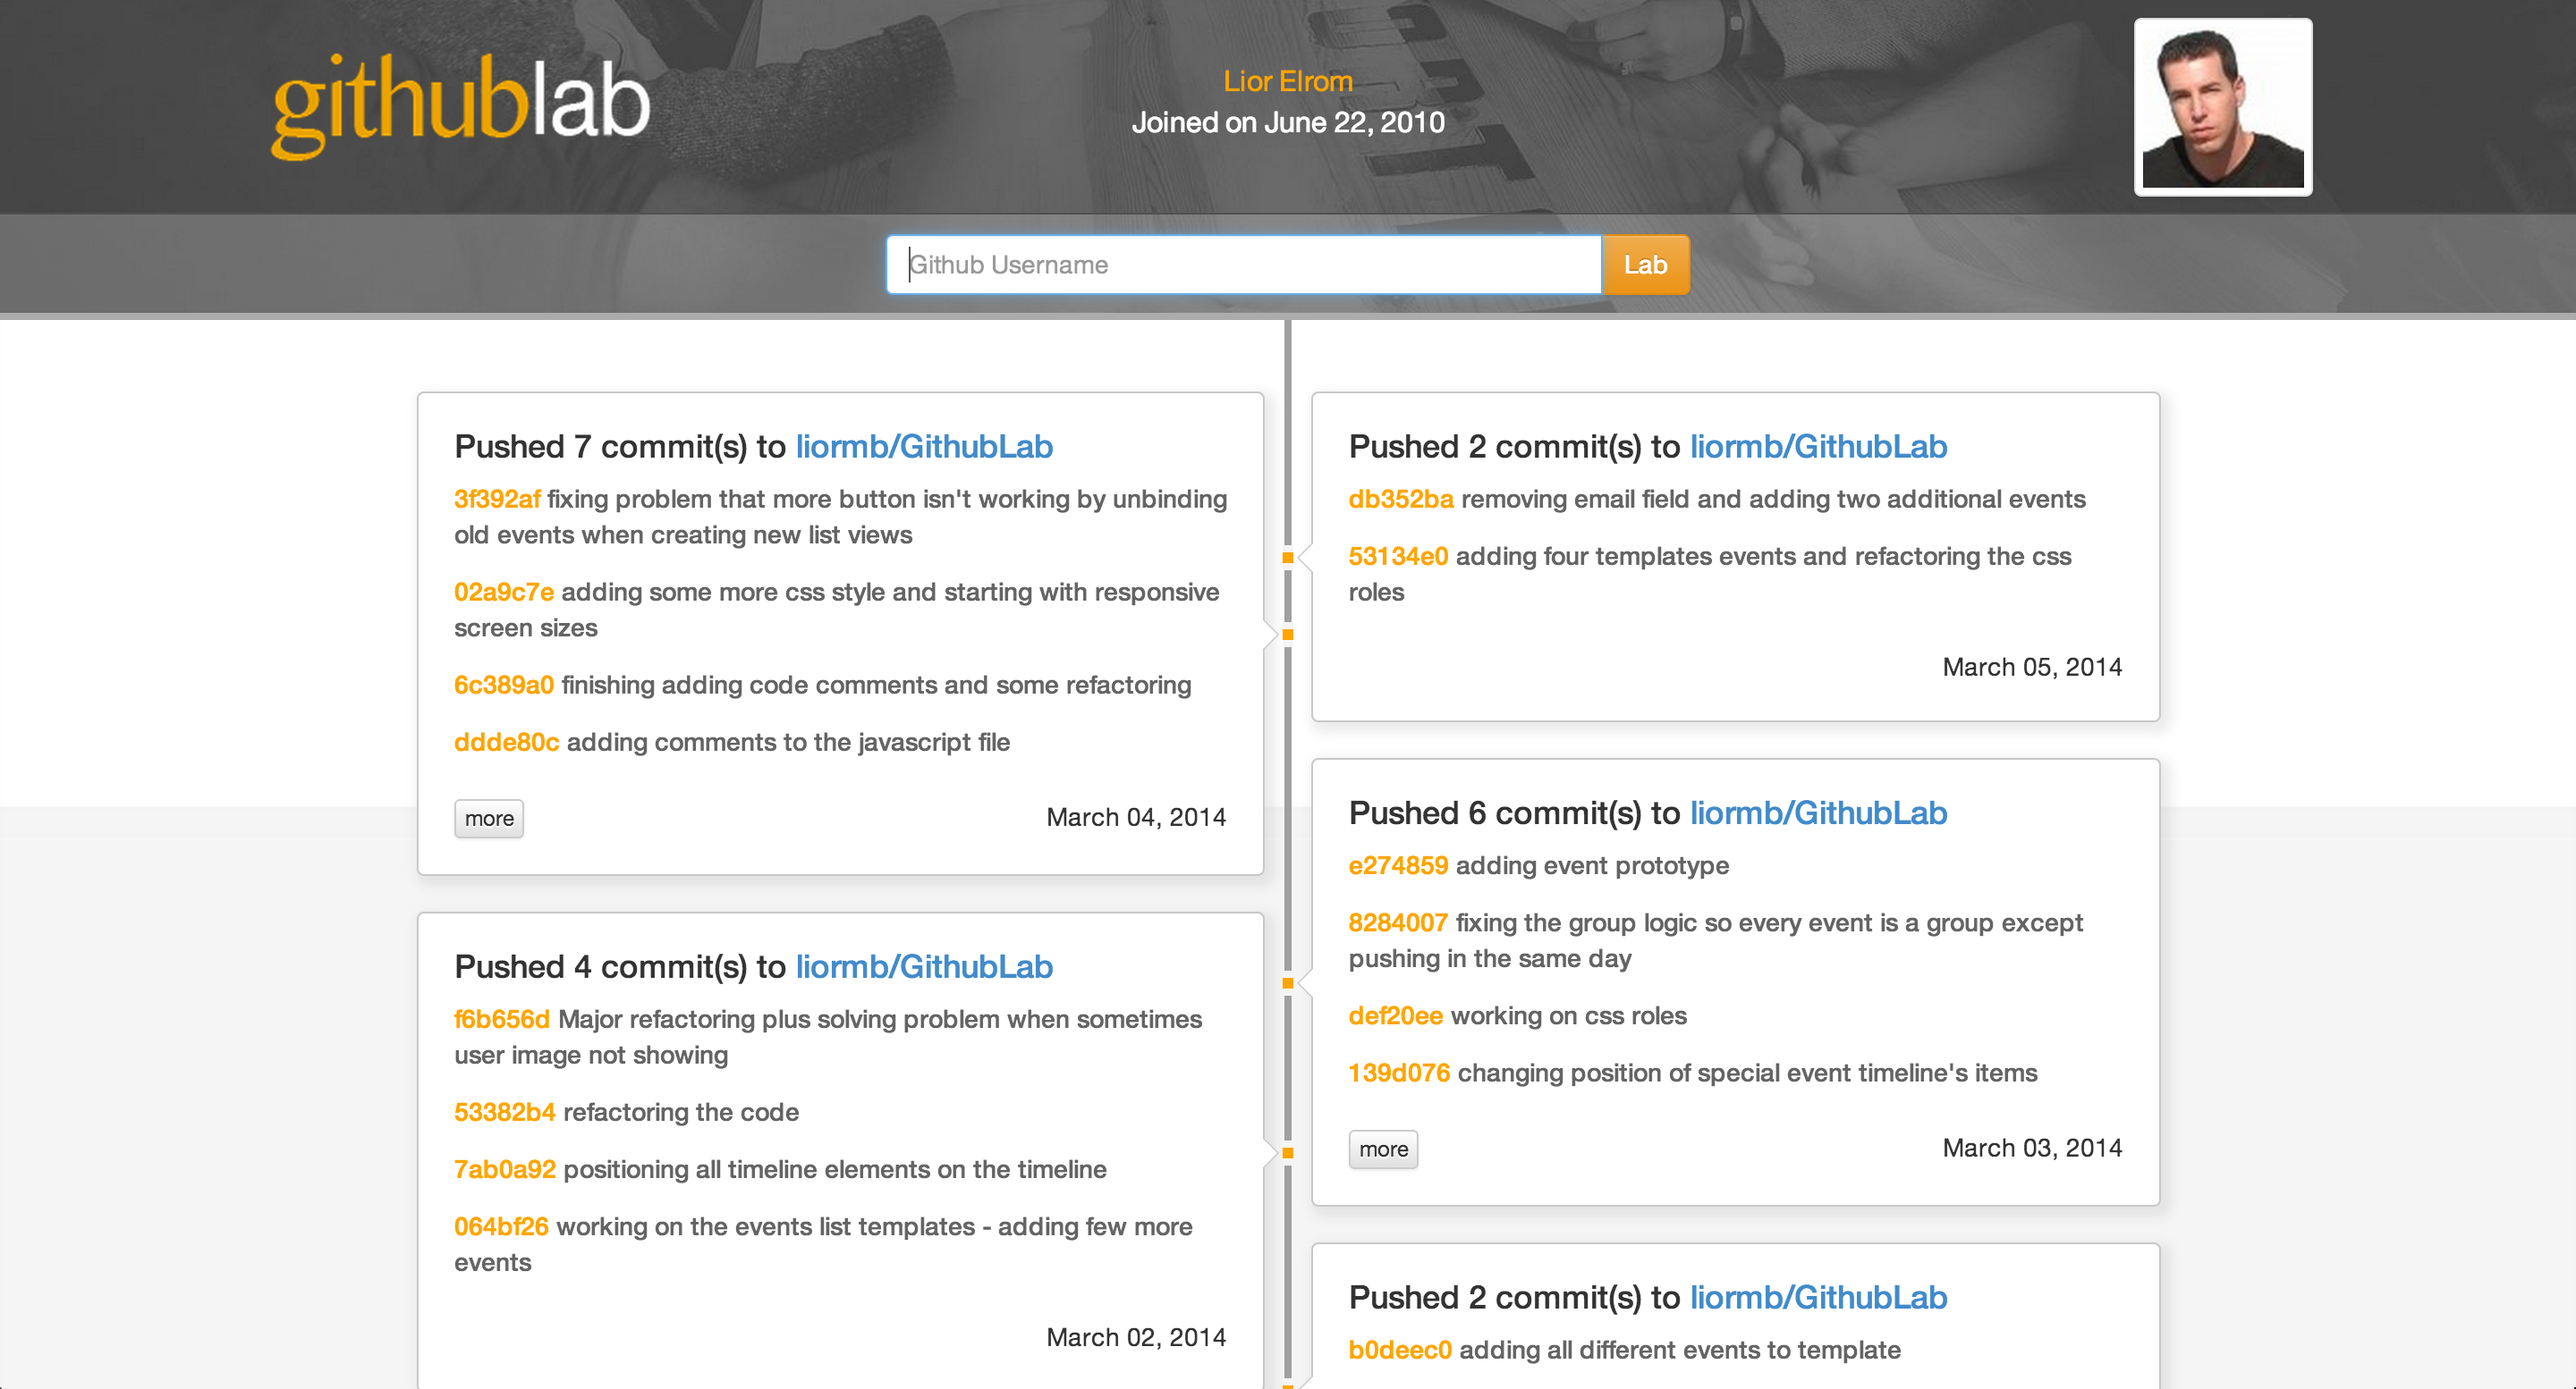
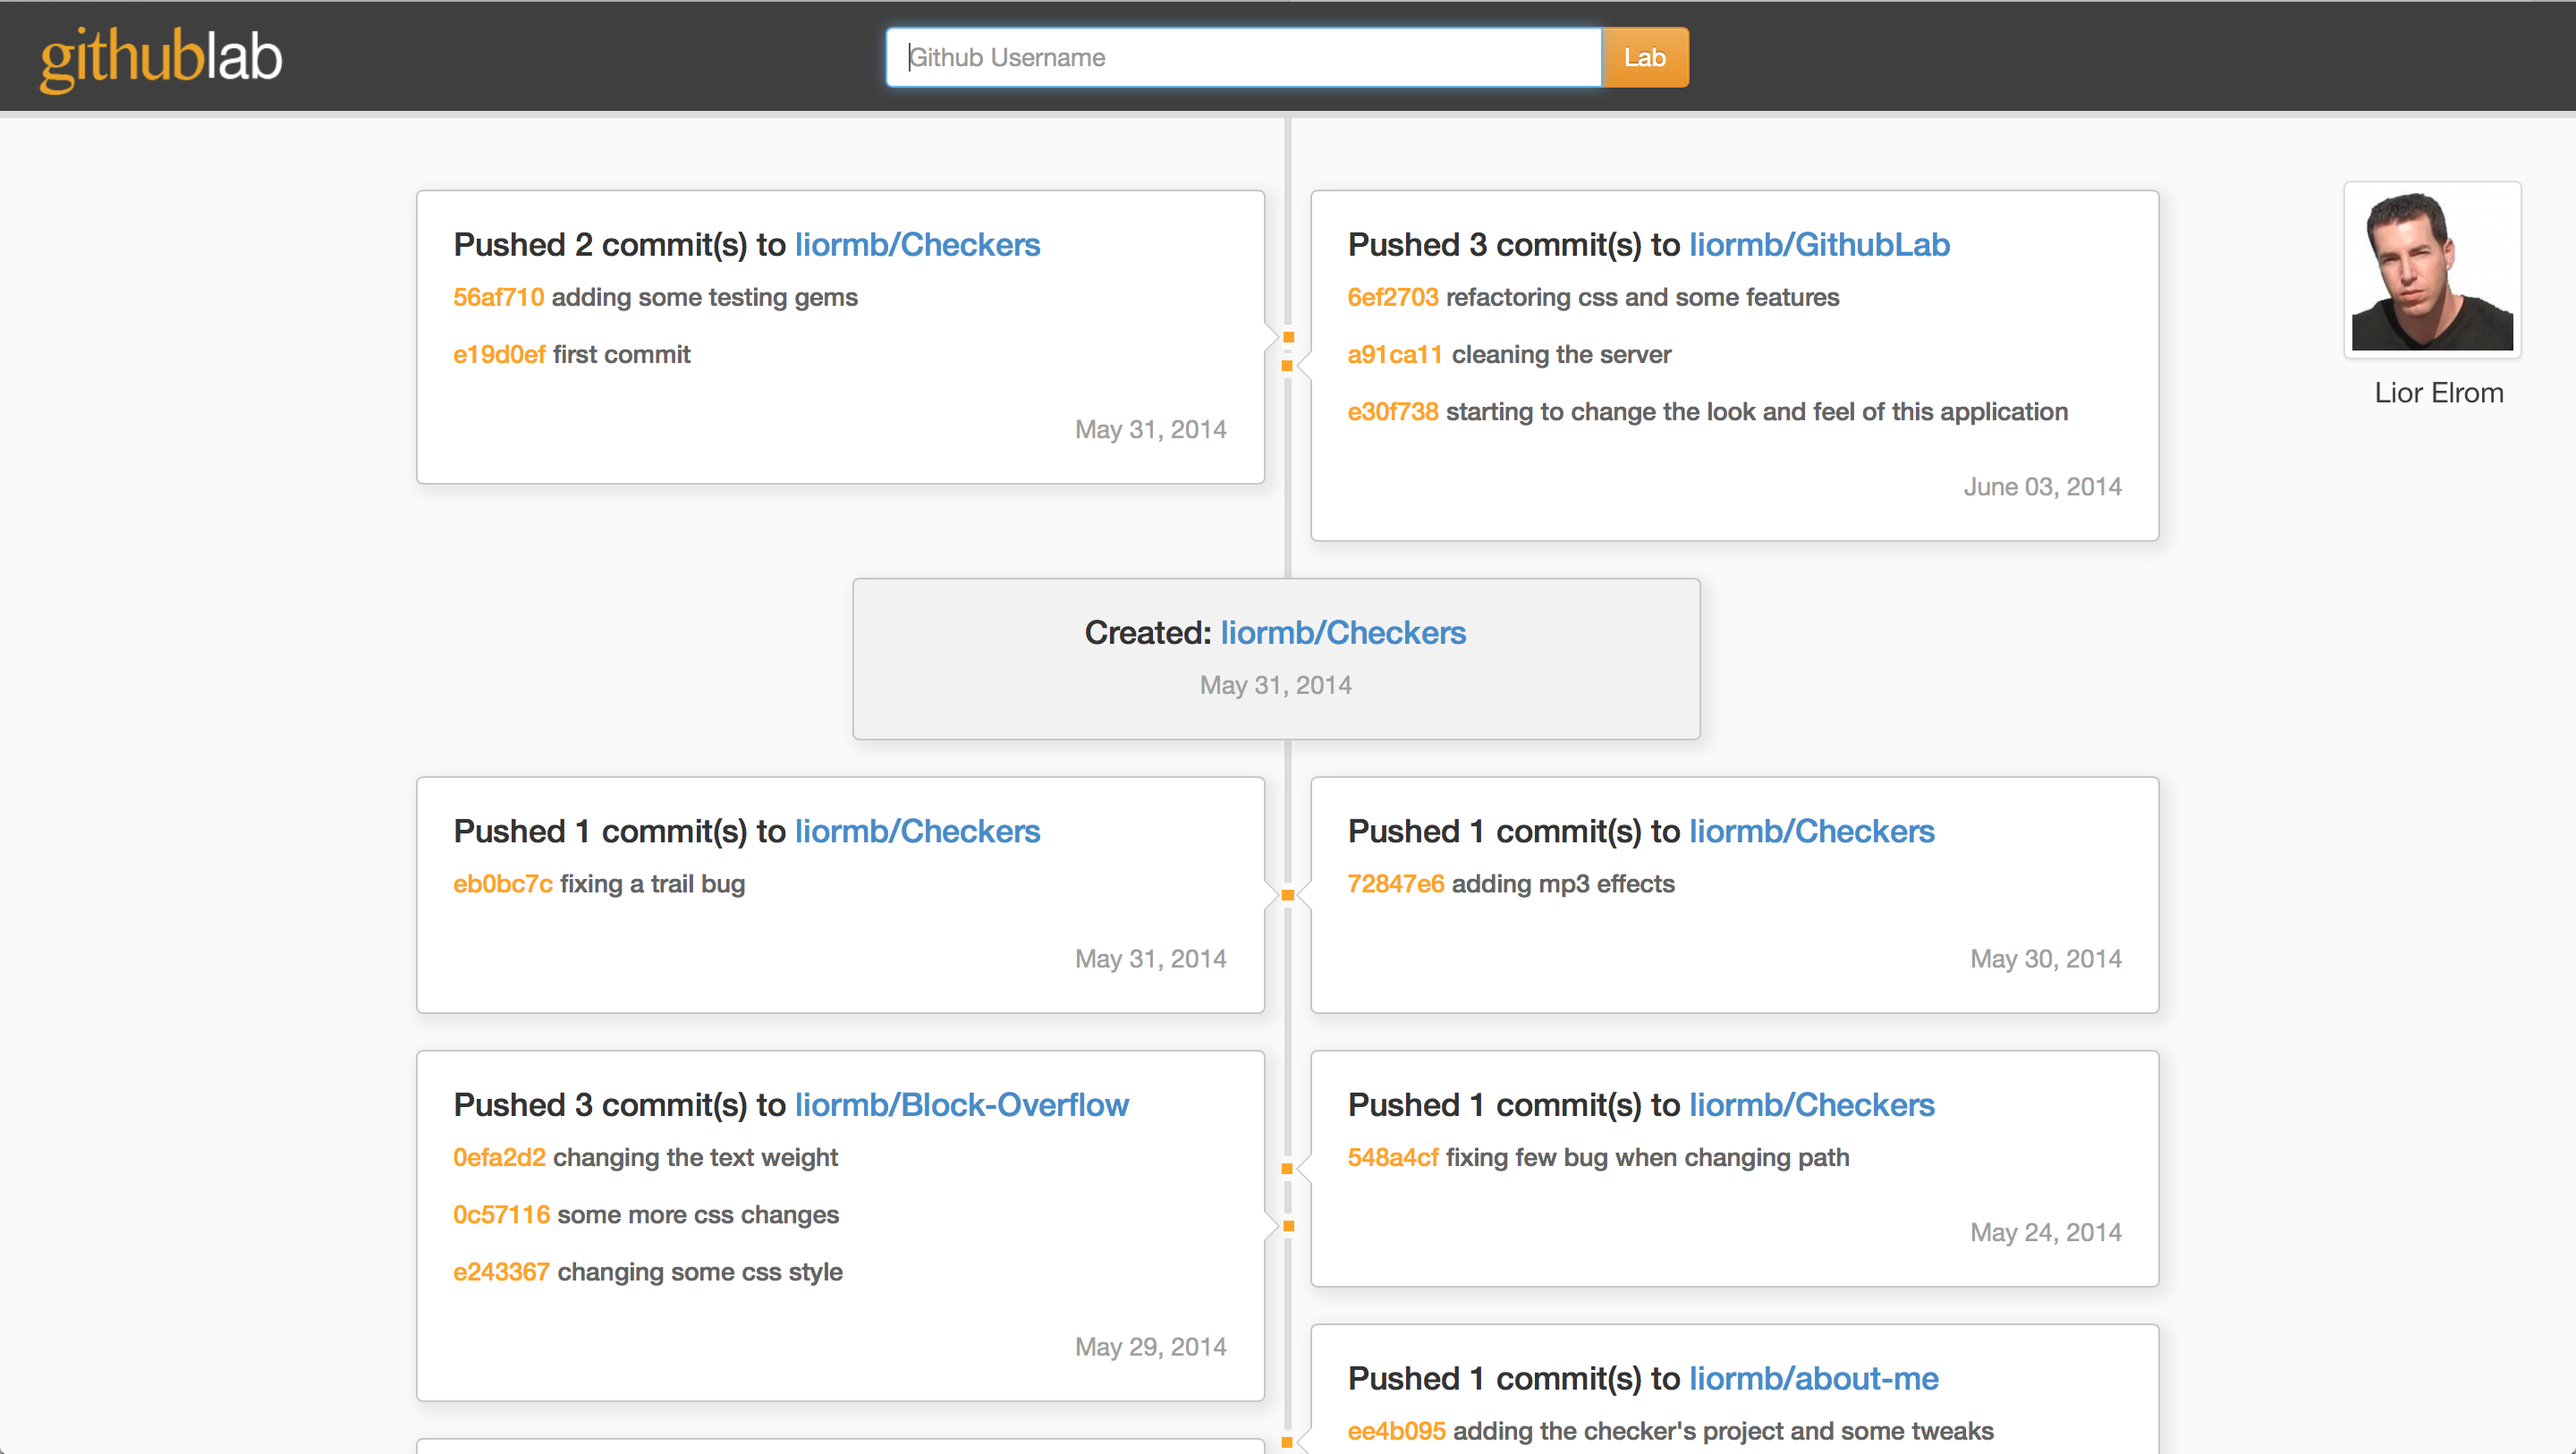
replacing screenshots images and showing upto 10 pages per user

diff --git a/public/javascripts/githublab.js b/public/javascripts/githublab.js
@@ -1,7 +1,7 @@
 
 var $pageContainer = $('#page-container');
 var $timeline = "<div id='timeline-line'></div>"; // the timeline vertical element
-var pages = 1;           // number of pages returning from Github API per user
+var pages = 10;           // number of pages returning from Github API per user
 var timelineTopPos = 0; // top start position of the timeline
 var marginBottom = 20;   // the margin between each timeline item
 var commitsPerEvent = 4; // default number of commits shown in each event
